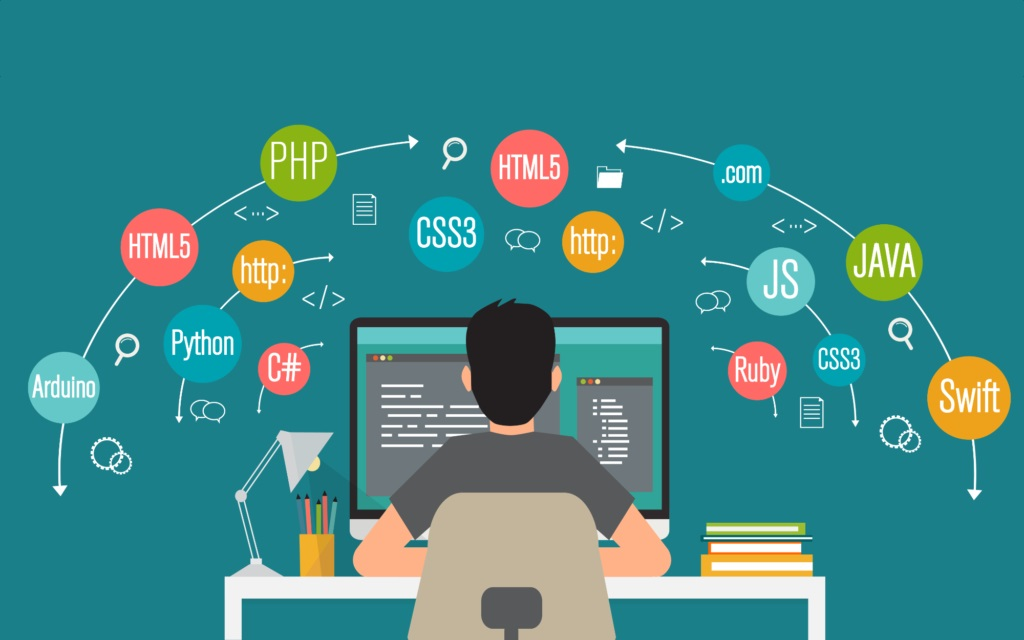
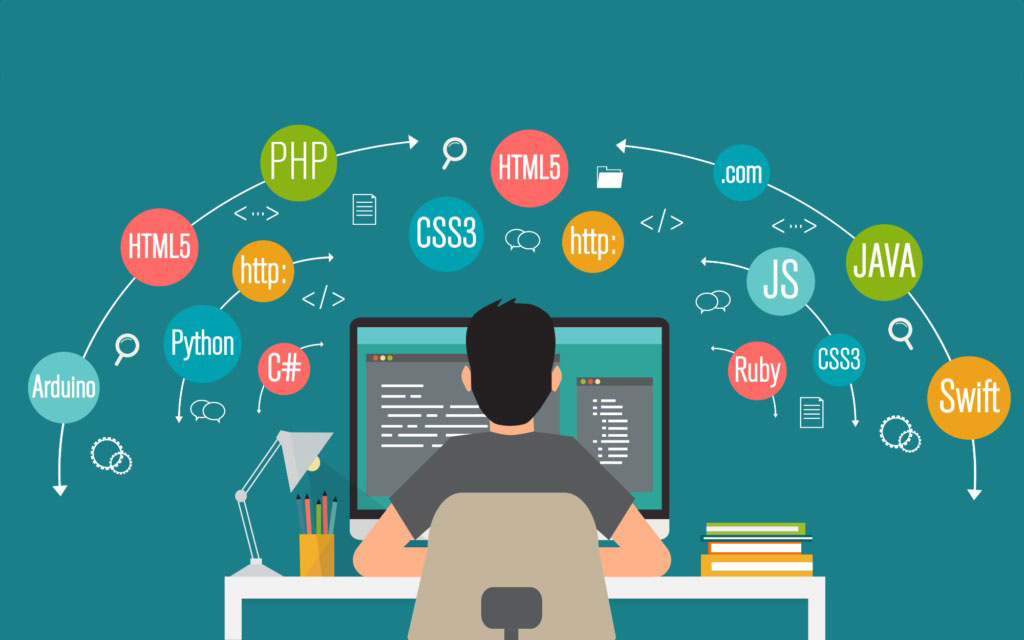
optimise images and update links

diff --git a/index.html b/index.html
@@ -5,10 +5,11 @@
     <meta charset="UTF-8" />
     <meta name="viewport" content="width=device-width, initial-scale=1.0" />
     <meta name="theme-color" content="#ffffff" />
-    <meta name="description" content="learn and master css" />
-    <meta name="keywords" content="css, master css, learn css" />
+    <meta name="description" content="Lekan Ojulowo is a Fullstack JavaScript focus developer" />
+    <meta name="keywords"
+      content="Lekan Ojulowo, Software Developer, JavaScript Engineer, Fullstack Developer, Fullstack Engineer, Frontend Developer, Frontend Engineer, Backend Developer, Backend Engineer, NodeJs developer, NodeJs Engineer, Web Developer, Web Engineer" />
     <meta name="author" content="Lekan Ojulowo" />
-    <title>CSS in 44 Minutes</title>
+    <title>Lekan Ojulowo</title>
     <link rel="stylesheet" href="css/main.css" />
     <link rel="stylesheet" href="css/animations.css" />
     <link rel="shortcut icon" href="images/favicon.ico" type="image/x-icon" />
@@ -25,7 +26,8 @@
           <img src="images/lekan.jpg" srcset="
 							images/lekan.jpg   1x,
 							images/lekan@2x.jpg 2x,
-							images/lekan@3x.jpg 3x
+							images/lekan@3x.jpg 3x,
+							images/lekan@4x.jpg 4x
 						" alt="Portrait of Lekan Ojulowo" width="320" height="320" class="picture-image" id="pictureImage" />
         </figure>
       </aside>
@@ -40,36 +42,45 @@
           </p>
         </div>
         <div class="contact">
-          <!-- <a href="mailto:lekanojulowo@gmail.com" class="button">
-            Get in touch
-          </a> -->
-          <label for="subscribe">Get in Touch</label>
-          <input type="text" aria-label="subscribe-input" accesskey="m" id="subscribe">
+          <a href="mailto:lekanojulowo@gmail.com" class="button">
+            Get in touch &nbsp;
+            <i class="fas fa-envelope"></i>
+          </a>
         </div>
         <ul class="social">
           <li>
-            <a>
+            <a href="https://github.com/lekanojulowo">
               <i class="fab fa-github"></i>
             </a>
           </li>
           <li>
-            <a>
+            <a href="https://linkedin.com/in/lekanojulowo">
               <i class="fab fa-linkedin"></i>
             </a>
           </li>
           <li>
-            <a>
+            <a href="https://facebook.com/lekanojulowo">
               <i class="fab fa-facebook"></i>
             </a>
           </li>
           <li>
-            <a>
+            <a href="https://twitter.com/lekan_ojulowo">
               <i class="fab fa-twitter"></i>
             </a>
           </li>
           <li>
-            <a>
-              <i class="fab fa-google"></i>
+            <a href="https://stackoverflow.com/users/11927187/lekan-ojulowo">
+              <i class="fab fa-stack-overflow"></i>
+            </a>
+          </li>
+          <li>
+            <a href="https://medium.com/@lekanojulowo">
+              <i class="fab fa-medium"></i>
+            </a>
+          </li>
+          <li>
+            <a href="https://dev.to/lekanojulowo">
+              <i class="fab fa-dev"></i>
             </a>
           </li>
         </ul>
@@ -93,7 +104,8 @@
     </noscript>
 
     <script defer type="text/javascript" src="js/main.js"></script>
-    <script defer src="https://use.fontawesome.com/releases/v5.3.1/js/all.js"></script>
+    <!-- <script defer src="https://use.fontawesome.com/releases/v5.3.1/js/all.js"></script> -->
+    <script defer src="js/all.js"></script>
 
     <script>
       if ("serviceWorker" in navigator) {

diff --git a/404.html b/404.html
@@ -5,39 +5,45 @@
     <meta charset="UTF-8">
     <meta name="viewport" content="width=device-width, initial-scale=1.0">
     <meta name="theme-color" content="#ffffff" />
-    <meta name="description" content="learn and master css" />
-    <meta name="keywords" content="css, master css, learn css" />
+    <meta name="description" content="Lekan Ojulowo is a fullstack JavaScript focus developer" />
+    <meta name="keywords"
+      content="Lekan Ojulowo, Software Developer, JavaScript Engineer, Fullstack Developer, Fullstack Engineer, Frontend Developer, Frontend Engineer, Backend Developer, Backend Engineer, NodeJs developer, NodeJs Engineer, Web Developer, Web Engineer" />
     <link rel="shortcut icon" href="images/favicon.ico" type="image/x-icon">
     <link rel="apple-touch-icon" href="images/logo192.png" />
     <link rel="manifest" href="manifest.json" />
-    <title>COVID-19 Estimator : 404 Error</title>
+    <link rel="stylesheet" href="css/main.css">
+    <link rel="stylesheet" href="css/animations.css">
+    <title>Lekan Ojulowo : 404 Error</title>
 
   </head>
 
   <body>
-    <noscript>You need to enable JavaScript to run this app effectively as some features may not be implemented without
-      it.</noscript>
+    <noscript>
+      <style>
+        html {
+          color: "#ffffff";
+          background-color: "#5f45bb";
+        }
+      </style>
+      You need to enable JavaScript to run this app effectively as some features may not be implemented without
+      it.
+    </noscript>
     <main>
       <section>
         <header>
-          <h1>COVID 19 Estimator Analysis and Projection</h1>
+          <h1>Lekan Ojulowo</h1>
         </header>
 
         <div>
           <h3>Sorry: Resources Not Found</h3>
-          <p>Please check your network connection</p>
+          <p>Please check your network connection.</p>
+          <p>Also ensure it is a valid resource url.</p>
         </div>
 
         <footer>Thank you.</footer>
 
       </section>
     </main>
-
-
-
-    <script>
-      document.body.style.color = 'purple';
-    </script>
   </body>
 
 </html>

diff --git a/js/main.js b/js/main.js
@@ -22,7 +22,6 @@ const loadImage = (id, targetId) => {
 }
 
 document.addEventListener('DOMContentLoaded', function () {
-  $q('#subscribe').focus();
   loadImage('wallpaper');
   loadImage('pictureImage', 'picture');
 });
